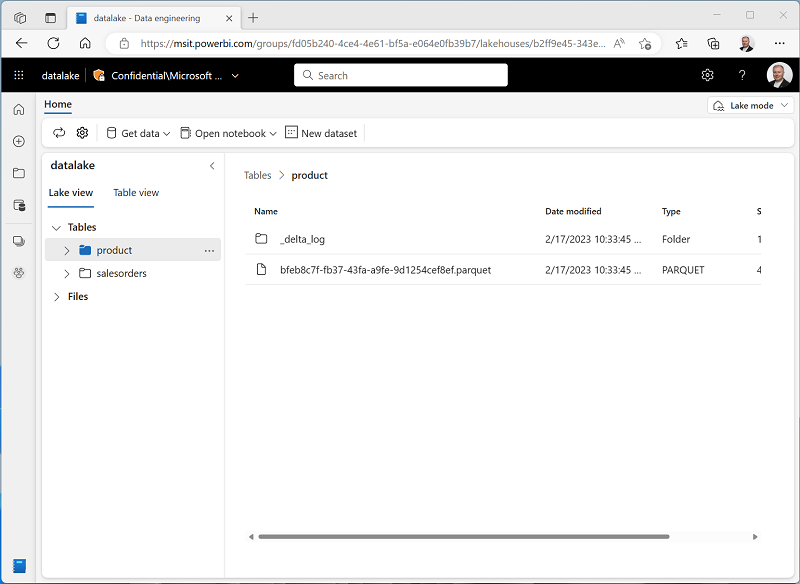
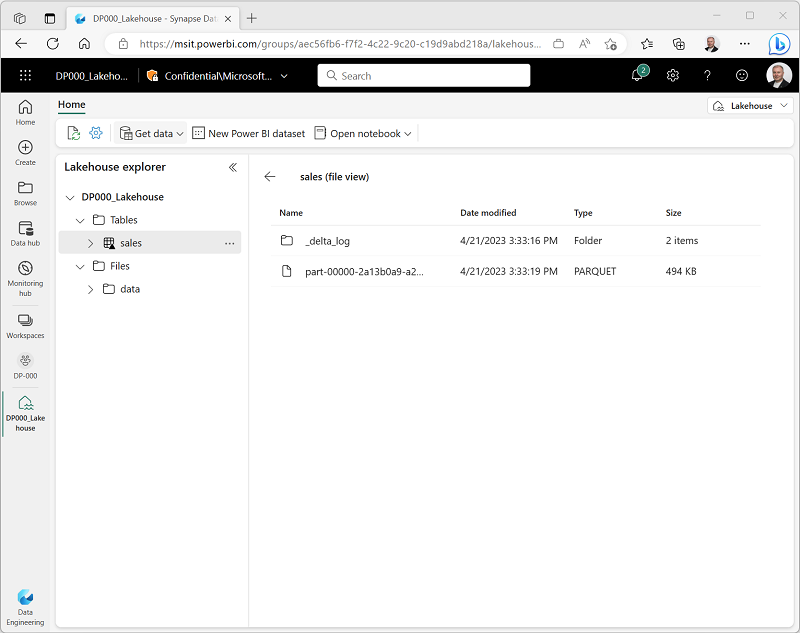
Updates (but it still doesn't work)

diff --git a/Instructions/Labs/01-lakehouse.md b/Instructions/Labs/01-lakehouse.md
@@ -5,7 +5,7 @@ lab:
 ---
 
 ---
-*The UI is changing frequently -we'll need to update (or remove) screenshots prior to release.*
+*The UI is changing frequently -we'll update (or remove) screenshots prior to release.*
 
 ---
 
@@ -13,7 +13,7 @@ lab:
 
 Large-scale data analytics solutions have traditionally been built around a *data warehouse*, in which data is stored in relational tables and queried using SQL. The growth in "big data" (characterized by high *volumes*, *variety*, and *velocity* of new data assets) together with the availability of low-cost storage and cloud-scale distributed compute technologies has led to an alternative approach to analytical data storage; the *data lake*. In a data lake, data is stored as files without imposing a fixed schema for storage. Increasingly, data engineers and analysts seek to benefit from the best features of both of these approaches by combining them in a *data lakehouse*; in which data is stored in files in a data lake and a relational schema is applied to them as a metadata layer so that they can be queried using traditional SQL semantics.
 
-In Microsoft Fabric, a lakehouse provides highly scalable file storage in a *OneLake* storage service with a metastore for relational objects such as tables and views based on the Apache Spark *Delta Lake* table format. Delta Lake enables you to "overlay" file data with a schema of tables that support transactional semantics and other capabilities commonly found in a traditional relational data warehouse.
+In Microsoft Fabric, a lakehouse provides highly scalable file storage in a *OneLake* store (built on Azure Data Lake Store Gen2) with a metastore for relational objects such as tables and views based on the open source *Delta Lake* table format. Delta Lake enables you to define a schema of tables in your lakehouse that you can query using SQL.
 
 This lab will take approximately **45** minutes to complete.
 
@@ -36,11 +36,11 @@ Before working with data in Fabric, create a workspace with premium capacity ena
 
 Now that you have a workspace, it's time to switch to the *Data engineering* experience in the portal and create a data lakehouse for your data files.
 
-1. At the bottom left of the Power BI portal, select the **Power BI** icon and switch to the **Data engineering** experience, as shown here:
+1. At the bottom left of the Power BI portal, switch the workload to the **Data Engineering** experience, as shown here:
 
     ![Screenshot of the experience menu in Power BI.](./Images/data-engineering.png)
 
-    The data engineering home page provides shortcuts to create commonly used data engineering assets:
+    The data engineering home page includes tiles to create commonly used data engineering assets:
 
     ![Screenshot of the Data Engineering home page.](./Images/data-engineering-home.png)
 
@@ -51,104 +51,50 @@ Now that you have a workspace, it's time to switch to the *Data engineering* exp
     ![Screenshot of a new lakehouse.](./Images/new-lakehouse.png)
 
 3. View the new lakehouse, and note that the **Lakehouse explorer** pane on the left enables you to browse tables and files in the lakehouse:
-    - The **Tables** folder contains relational abstractions over files that you can query using SQL semantics. Tables in a Microsoft Fabric lakehouse are based on the open source *Delta* file format, commonly used in Apache Spark.
-    - The **Files** folder contains data files in the OneLake storage for the lakehouse that are not associated with managed delta tables.
+    - The **Tables** folder contains tables that you can query using SQL semantics. Tables in a Microsoft Fabric lakehouse are based on the open source *Delta Lake* file format, commonly used in Apache Spark.
+    - The **Files** folder contains data files in the OneLake storage for the lakehouse that are not associated with managed delta tables. You can also create *shortcuts* that reference data that is stored externally in this folder.
 
     Currently, there are no tables or files in the lakehouse.
 
-## Load data into the lakehouse
+## Upload a file
 
-There are multiple ways to load data into the lakehouse.
+There are multiple ways to load data into the lakehouse. One of the simplest ways to ingest small amounts of data is to upload files or folders from your local computer.
 
-### Upload a file
+1. Download the **sales.csv** file from [https://raw.githubusercontent.com/MicrosoftLearning/dp-data/main/sales.csv](https://raw.githubusercontent.com/MicrosoftLearning/dp-data/main/sales.csv), saving it as **sales.csv** on your local computer
+2. Return to the web browser tab containing your lakehouse, and in the **...** menu for the **Files** folder in the **Lakehouse explorer** pane, select **New subfolder**, and create a subfolder named **data**.
+3. In the **...** menu for the new **data** folder, select **Upload** and **Upload file**, and then upload the **sales.csv** file from your local computer.
+4. After the file has been uploaded, select the **Files/data** folder and verify that the **sales.csv** file has been uploaded, as shown here:
 
-One of the simplest ways to ingest small amounts of data into the lakehouse is to upload files or folders from your local computer.
+    ![Screenshot of uploaded sales.csv file in a lakehouse.](./Images/uploaded-sales-file.png)
 
-1. Download the **orders.csv** file from [https://raw.githubusercontent.com/MicrosoftLearning/dp-data/main/orders.csv](https://raw.githubusercontent.com/MicrosoftLearning/dp-data/main/orders.csv), saving it as **orders.csv** on your local computer
-2. Return to the web browser tab containing your lakehouse, and in the **...** menu for the **Files** folder in the **Lakehouse explorer** pane, select **Upload** and **Upload file**, and then upload the **orders.csv** file from your local computer to the lakehouse.
-3. After the file has been uploaded, select **Files** verify that the **orders.csv** file has been uploaded, as shown here:
+5. Select the **sales.csv** file to see a preview of its contents.
 
-    ![Screenshot of uploaded orders.csv file in a lakehouse.](./Images/uploaded-file.png)
+## Explore shortcuts
 
-4. Select the **orders.csv** file to see a preview of its contents.
+In many scenarios, the data you need to work with in your lakehouse may be stored in some other location. While there are many ways to ingest data into the OneLake storage for your lakehouse, another option is to instead create a *shortcut*. This enables you to include externally sourced data in your analytics solution without the overhead and risk of data inconsistency associated with copying it.
 
-### Load file data into a table
+1. In the **...** menu for the **Files** folder, select **New shortcut**.
+2. View the available data source types for shortcuts. Then close the **New shortcut** dialog box without creating a shortcut.
+
+## Load file data into a table
 
 The sales data you uploaded is in a file, which data analysts and engineers can work with directly by using Apache Spark code. However, in many scenarios you may want to load the data from the file into a table so that you can query it using SQL.
 
-1. On the **Home** page, select the **Files** folder so you can see the **orders.csv** file it contains.
-2. In the **...** menu for the **orders.csv** file select **Load to Delta table**.
-3. In **Load to table** dialog box, set the table name to **salesorders** and confirm the load operation. Then wait for the table to be created and loaded.
+1. On the **Home** page, select the **Files/Data** folder so you can see the **sales.csv** file it contains.
+2. In the **...** menu for the **sales.csv** file select **Load to Delta table**.
+3. In **Load to table** dialog box, set the table name to **sales** and confirm the load operation. Then wait for the table to be created and loaded.
 
-    > **Tip**: If the **salesorders** table does not automatically appear, in the **...** menu for the **Tables** folder, select **Refresh**.
+    > **Tip**: If the **sales** table does not automatically appear, in the **...** menu for the **Tables** folder, select **Refresh**.
 
-3. In the **Lakehouse explorer** pane, select the **salesorders** table that has been created for the table data.
+3. In the **Lakehouse explorer** pane, select the **sales** table that has been created to view the data.
 
     ![Screenshot of a table preview.](./Images/table-preview.png)
 
-4. In the **...** menu for the **salesorders** table, select **View table files** to see the underlying files for this table
+4. In the **...** menu for the **sales** table, select **View table files** to see the underlying files for this table
 
     ![Screenshot of a table preview.](./Images/delta-table-files.png)
 
     Files for a delta table are stored in *Parquet* format, and include a subfolder named **_delta_log** in which details of transactions applied to the table are logged.
-
-### Copy data with a pipeline
-
-When you need to regularly copy data from an external source into the lakehouse, you can create a pipeline that contains a **Copy Data** activity. Pipelines can be run on-demand or scheduled to run at specific intervals.
-
-1. On the **Home** page, in the **Get data** menu, select **New data pipeline**. When prompted, name the pipeline **Import Data**.
-
-    The pipeline editor opens in a new browser tab (if you are prompted to allow pop-ups, do so).
-
-2. If the **Copy Data** wizard doesn't open automatically, select **Copy Data** in the pipeline editor page.
-3. In the **Copy Data** wizard, on the **Choose a data source** page, in the **data sources** section, review the list of available sources. Then on the **Generic protocol** tab, select **HTTP**.
-
-    ![Screenshot of the Choose data source page.](./Images/choose-data-source.png)
-
-4. Select **Next** and then select **Create new connection** and enter the following settings for the connection to your data source:
-    - **URL**: `https://raw.githubusercontent.com/MicrosoftLearning/dp-data/main/products.csv`
-    - **Connection**: Create new connection
-    - **Connection name**: web_product_data
-    - **Authentication kind**: Basic
-    - **Username**: *Leave blank*
-    - **Password**: *Leave blank*
-
-5. Select **Next**. Then ensure the following settings are selected:
-    - **Relative URL**: *Leave blank*
-    - **Request method**: GET
-    - **Additional headers**: *Leave blank*
-    - **Binary copy**: <u>Un</u>selected
-    - **Request timeout**: *Leave blank*
-    - **Max concurrent connections**: *Leave blank*
-6. Select **Next**, and then ensure that the following settings are selected:
-    - **File format**: DelimitedText
-    - **Column delimiter**: Comma (,)
-    - **Row delimiter**: Line feed (\n)
-    - **First row as header**: Selected
-    - **Compression type**: None
-7. Select **Preview data** to see a sample of the data that will be ingested. Then close the data preview and select **Next**.
-8. On the **Choose data destination** page, select your existing lakehouse. Then select **Next**.
-9. Set the following data destination options (noting that you can copy the data to a file, or to a table - which creates the necessary files in the **Tables** storage area as well as the relational table metadata), and then select **Next**:
-    - **Root folder**: Tables
-    - **Table name**: `product`
-    - **Table action**: Append
-10. On the **Copy summary** page, review the details of your copy operation and then select **OK**
-
-    A new pipeline containing a **Copy Data** activity is created, as shown here:
-
-    ![Screenshot of a pipeline with a Copy Data activity.](./Images/copy-data-pipeline.png)
-
-11. Use the **&#9655; Run** button to run the pipeline, saving the pipeline when prompted.
-
-    When the pipeline starts to run, you can monitor its status in the **Output** pane under the pipeline designer. Wait until it has succeeeded.
-
-    ![Screenshot of a completed pipeline.](./Images/pipeline-completed.png)
-
-12. Go back to your workspace by selecting your workspace from the left navigation menu. Find and select your lakehouse.
-13. In the **Lakehouse explorer** pane, in the **...** menu for **Tables**, select **Refresh** to see the **product** table created by the pipeline.
-14. Select the **product** table to see a preview of its data.
-
-    ![Screenshot of the product table.](./Images/product-table.png)
 
 ## Use SQL to query tables
 
@@ -162,49 +108,36 @@ When you create a lakehouse and define tables in it, a SQL endpoint is automatic
 
     ![Screenshot of the SQL endpoint page.](./Images/warehouse.png)
 
+    ---
+    Note the error in the screenshot - retake when working
+
+    ---
+
 3. Use the **New SQL query** button to open a new query editor, and enter the following SQL query:
 
     ```sql
-    SELECT p.ProductName, COUNT(s.SalesOrderID) AS OrderCount
-    FROM salesorders AS s
-    JOIN product AS p
-        ON s.ProductID = p.ProductID
-    GROUP BY  p.ProductName
-    ORDER BY p.ProductName
+    SELECT Item, SUM(Quantity * UnitPrice) AS Revenue
+    FROM sales
+    GROUP BY Item
+    ORDER BY Revenue DESC;
     ```
 
-4. Use the **&#9655; Run** button to run the query and view the results, which should show the number of orders placed for each product.
+4. Use the **&#9655; Run** button to run the query and view the results, which should show the total revenue for each product.
+
+---
+This doesn't work - continue when working, adding steps to visualize the results
+
+---
+
+## Create a visual query
+
+
+## Edit the data model
+
 
 ## Create a report
 
-Creating and populating tables in a lakehouse automatically generated a default *dataset* that you can use as the basis for a Power BI data visualization.
 
-1. In the tabs at the bottom of the **Explorer** pane, select **Data**. Then at the top of the page, select the **Reporting** tab.
-2. In the **Reporting** menu, select **Manually update dataset**. Then select all of the tables in the lakehouse (**salesorders** and **product**) and confirm the update:
-
-    ![Screenshot of the Update dataset page.](./Images/update-dataset.png)
-
-    ---
-    *This fails - for some reason it doesn't recognize the **product** table!*
-
-    *We can wait for this to be fixed, or just cut this section (it's nice to show the end-to-end; but at this point we've covered the core "lakehouse" stuff)*
-
-    ---
-
-3. In the tabs at the bottom of the **Explorer** pane, select **Model**.
-
-    ---
-    *If we get the model to refresh, we'll add steps here to create a relationship between the two tables.*
-
-    ---
-
-
-4. In the toolbar, select **New report**.
-
-    ---
-    *If the dataset refreshes, we'll add steps here to create a simple report.*
-
-    ---
 
 ## Clean up resources
 
